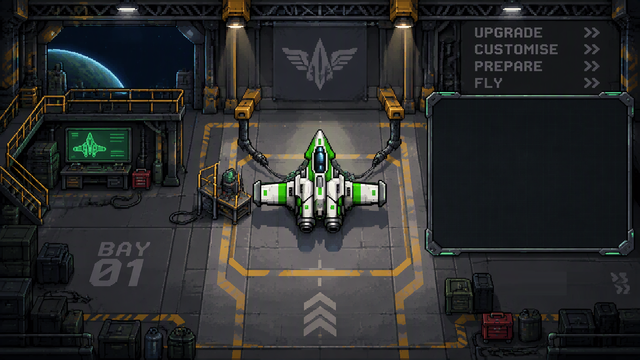
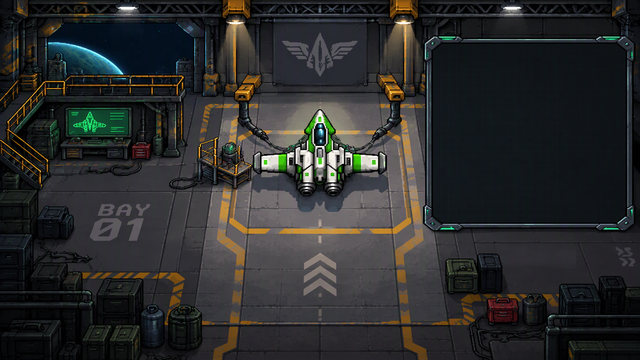
new hangar screen

diff --git a/README.md b/README.md
@@ -35,9 +35,9 @@ uses the bottom row. Straight, light-bank, and hard-bank frames follow the
 player's horizontal and diagonal movement.
 The title screen is a 640 x 360 center crop of `unused\newerTitle.png`, saved
 as `images\title-screen.png` for the console's texture-size limit. The hangar
-screen uses `images\hangar-screen.png`, and the game-over screen uses
-`images\game-over-screen.png`. The map screen remains in the project for
-future use.
+screen uses `images\hangar-screen.png`, prepared from `images\hangar2.png`;
+the game-over screen uses `images\game-over-screen.png`. The map screen
+remains in the project for future use.
 Enemies use the first two ships from the enemy sprite sheet:
 `images\enemy-01.png` takes one hit, while `images\enemy-02.png` takes five and
 moves at half speed. Their stats, movement intervals, and texture sizes are
